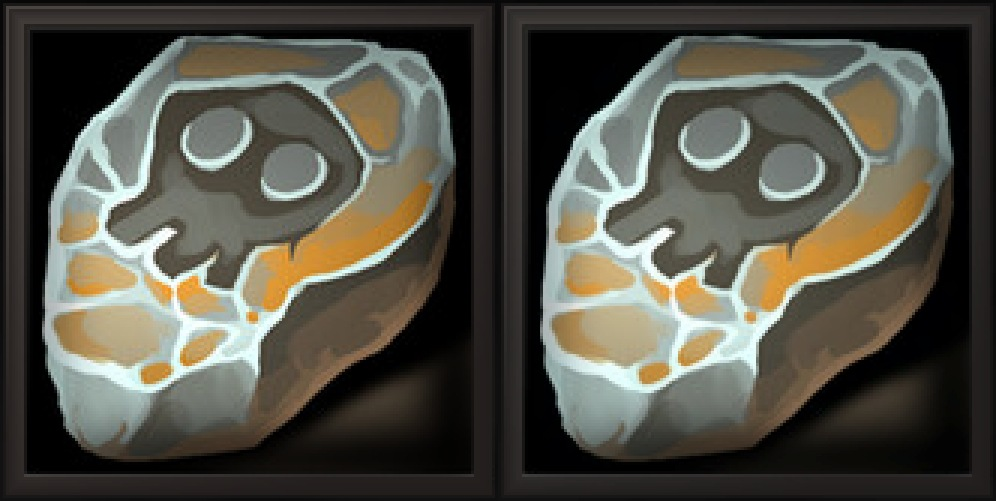
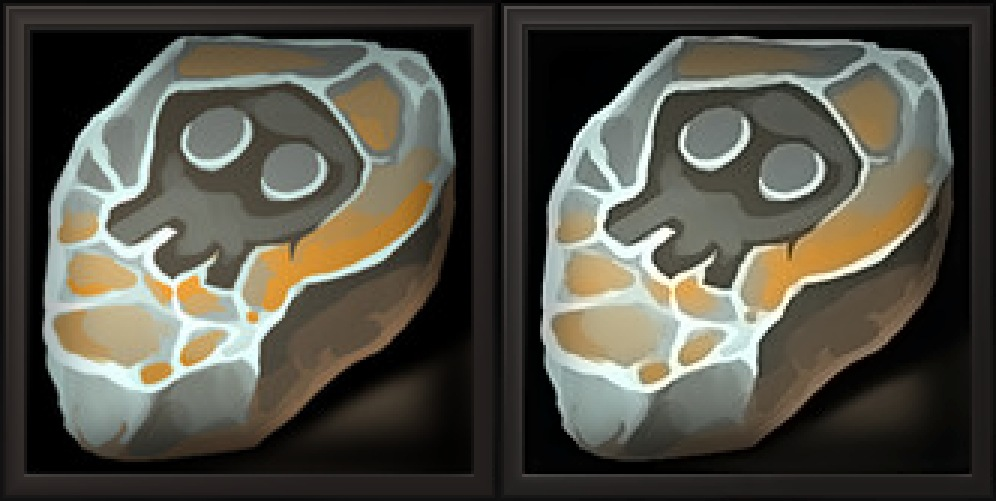
clean_icon: add gentle/strong/max presets with guided luma + edge-only unsharp

diff --git a/tools/clean_icon.py b/tools/clean_icon.py
@@ -50,9 +50,27 @@ def edge_band(L: np.ndarray, lo: float = 11.0, hi: float = 30.0) -> np.ndarray:
     return cv2.GaussianBlur(m, (0, 0), 0.8) * 0.5
 
 
+# ---------------------------------------------------------------------- presets
+PRESETS = {
+    # мягко: только явный мусор, рисунок почти не меняется
+    "gentle": dict(chroma=1.0, cmed=5, csig=1.4, passes=1, mthr=10, mrad=3,
+                   meps=30, unsharp=0.0),
+    # по умолчанию: цвет чистится сильно, яркость — 2 прохода по плоским зонам,
+    # контуры возвращаются лёгким unsharp только по маске краёв
+    "strong": dict(chroma=1.0, cmed=7, csig=2.5, passes=2, mthr=14, mrad=6,
+                   meps=120, unsharp=0.35),
+    # максимум: для сильно пережатых листов (следить за мелкими деталями)
+    "max":    dict(chroma=1.0, cmed=9, csig=3.5, passes=3, mthr=16, mrad=10,
+                   meps=300, unsharp=0.6),
+}
+
+
 # ------------------------------------------------------------------- cleaning
 def clean(img: np.ndarray, chroma: float = 1.0, luma: float = 0.8,
-          edge_thr: float = 10.0, protect: int = 1, ringing: bool = True) -> np.ndarray:
+          edge_thr: float = 10.0, protect: int = 1, ringing: bool = True,
+          preset: str | None = None) -> np.ndarray:
+    if preset:
+        return clean_preset(img, preset)
     lab = cv2.cvtColor(img, cv2.COLOR_BGR2LAB)
     L, A, B = [c.astype(np.float32) for c in cv2.split(lab)]
     m = flat_mask(L, edge_thr, protect)
@@ -89,7 +107,52 @@ def clean(img: np.ndarray, chroma: float = 1.0, luma: float = 0.8,
     return out
 
 
+def clean_preset(img: np.ndarray, preset: str = "strong") -> np.ndarray:
+    """Чистка по пресету: хрома — медиана + сглаживание, яркость — guided
+    по маске плоских зон в несколько проходов, затем лёгкий возврат резкости
+    только на контурах (без гало: маска краёв узкая)."""
+    p = dict(PRESETS[preset])
+    k = float(np.clip(p["chroma"], 0.0, 2.0))
+    lab = cv2.cvtColor(img, cv2.COLOR_BGR2LAB)
+    L, A, B = [c.astype(np.float32) for c in cv2.split(lab)]
+
+    # --- 1. хрома
+    A_med = cv2.medianBlur(np.clip(A, 0, 255).astype(np.uint8), p["cmed"]).astype(np.float32)
+    B_med = cv2.medianBlur(np.clip(B, 0, 255).astype(np.uint8), p["cmed"]).astype(np.float32)
+    A_t = 0.45 * A_med + 0.55 * cv2.GaussianBlur(A, (0, 0), p["csig"])
+    B_t = 0.45 * B_med + 0.55 * cv2.GaussianBlur(B, (0, 0), p["csig"])
+    A = A + (A_t - A) * k
+    B = B + (B_t - B) * k
+
+    # --- 2. яркость: guided-фильтр только в плоских зонах, несколько проходов
+    for _ in range(int(p["passes"])):
+        m = flat_mask(L, p["mthr"], 1)
+        L8 = np.clip(L, 0, 255).astype(np.uint8)
+        if hasattr(cv2, "ximgproc"):
+            L_g = cv2.ximgproc.guidedFilter(L8, L8, int(p["mrad"]),
+                                            float(p["meps"])).astype(np.float32)
+        else:
+            L_g = cv2.bilateralFilter(L, int(p["mrad"]), 22, 3.0)
+        L_m = cv2.medianBlur(L8, 3).astype(np.float32)
+        L_s = 0.35 * L_m + 0.65 * L_g
+        L = L + (L_s - L) * np.clip(m, 0.0, 1.0)
+
+    # --- 3. возврат резкости по контурам (узкая маска — без ореолов)
+    if p["unsharp"] > 0:
+        hp = L - cv2.GaussianBlur(L, (0, 0), 1.5)
+        em = np.clip((_edges(L) - 6.0) / 24.0, 0.0, 1.0)
+        L = L + hp * float(p["unsharp"]) * em
+
+    return cv2.cvtColor(np.clip(np.stack([L, A, B], -1), 0, 255).astype(np.uint8),
+                        cv2.COLOR_LAB2BGR)
+
+
 # -------------------------------------------------------------------- metrics
+def _ring(L: np.ndarray, edge: np.ndarray) -> float:
+    near = cv2.dilate(edge.astype(np.uint8), np.ones((7, 7), np.uint8)).astype(bool) & ~edge
+    return float(np.abs(L - cv2.GaussianBlur(L, (0, 0), 1.0))[near].mean())
+
+
 def metrics(img: np.ndarray) -> dict:
     lab = cv2.cvtColor(img, cv2.COLOR_BGR2LAB).astype(np.float32)
     L, A, B = lab[..., 0], lab[..., 1], lab[..., 2]
@@ -106,6 +169,7 @@ def metrics(img: np.ndarray) -> dict:
         "цветной шум (a/b)": round(float((md(A)[flat].mean() + md(B)[flat].mean()) / 2), 2),
         "шум яркости": round(float(md(L)[flat].mean()), 2),
         "резкость контуров": round(float(lap[edge].mean()), 1),
+        "звон у контуров": round(_ring(L, edge), 2),
         "средняя яркость": round(float(L.mean()), 1),
     }
 
@@ -114,6 +178,8 @@ def main() -> int:
     ap = argparse.ArgumentParser(description="Чистка иконок от JPEG-шума")
     ap.add_argument("images", nargs="+")
     ap.add_argument("-o", "--out", default=None)
+    ap.add_argument("--preset", default="strong", choices=sorted(PRESETS),
+                    help="готовый режим чистки (по умолчанию strong)")
     ap.add_argument("--chroma", type=float, default=1.0, help="сила чистки цвета 0..2")
     ap.add_argument("--luma", type=float, default=0.8, help="сила чистки яркости 0..2")
     ap.add_argument("--edge-thr", type=float, default=10.0)
@@ -126,8 +192,9 @@ def main() -> int:
         img = cv2.imread(src)
         if img is None:
             raise SystemExit(f"не читается: {src}")
-        res = clean(img, args.chroma, args.luma, args.edge_thr,
-                    ringing=not args.no_ringing)
+        res = clean_preset(img, args.preset) if args.preset else \
+            clean(img, args.chroma, args.luma, args.edge_thr,
+                  ringing=not args.no_ringing)
         if args.out and len(args.images) == 1:
             dst = args.out
         else:

diff --git a/tools/README.md b/tools/README.md
@@ -101,10 +101,20 @@ python3 tools/clean_icon.py in.png -o out.png --chroma 1.0 --luma 0.8
 зелёно-сиреневого на ровном сером — следствие JPEG 4:2:0 и грубого квантования
 хромы), **дрожание яркости ~1 ед. и блочность 8×8**, **звон у светлых контуров**.
 
-`clean_icon.py` давит хрому медианой 5×5 + лёгкое сглаживание (цветовые зоны не
-размазываются), а яркость чистит только внутри маски плоских участков
-(медиана 3×3 + guided-фильтр), поэтому контуры и мелкие детали остаются
-резкими: резкость кромок в прогоне 61.2 → 61.8, цветной шум 0.31 → 0.18.
+`clean_icon.py` давит хрому медианой + сглаживанием (цветовые зоны не
+размазываются), а яркость чистит guided-фильтром только внутри маски плоских
+участков, в несколько проходов; затем лёгкий unsharp строго по маске контуров
+возвращает резкость без ореолов.
+
+Режимы (`--preset`): `gentle` (только явный мусор), `strong` (по умолчанию),
+`max` (сильно пережатые листы). Замер на образце (strong):
+
+| метрика | до | после |
+|---|---|---|
+| цветной шум a/b | 0.31 | **0.17** |
+| шум яркости | 0.29 | 0.23 |
+| звон у контуров | 3.12 | **2.72** |
+| резкость контуров | 61.2 | 71.7 |
 
 ## Нарезка иконок с обводкой
 
